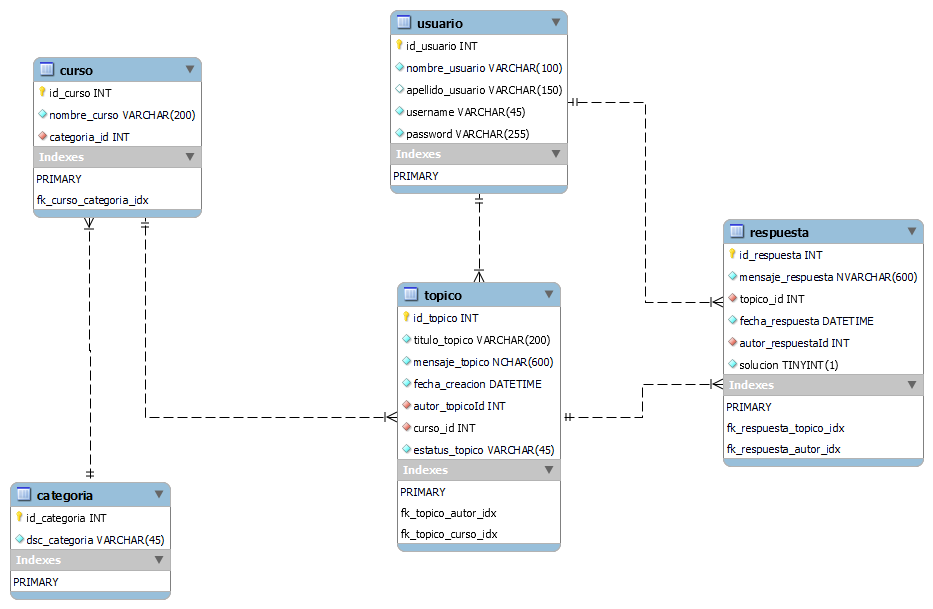
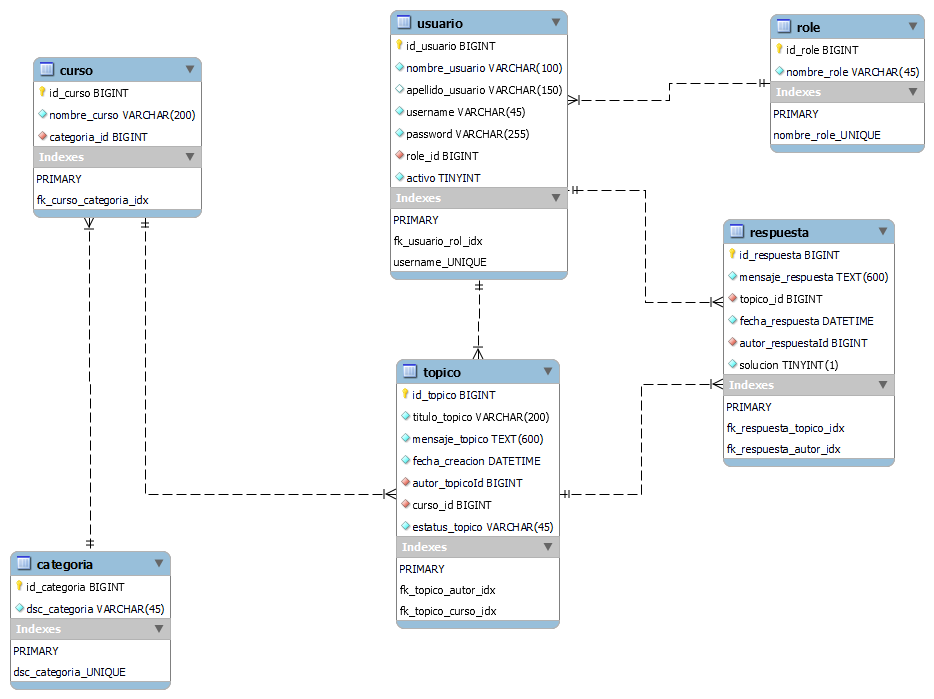
Actualizacion clase Respuesta

diff --git a/src/main/java/com/alura/foroalura/domain/respuesta/Respuesta.java b/src/main/java/com/alura/foroalura/domain/respuesta/Respuesta.java
@@ -5,39 +5,34 @@ import java.time.LocalDateTime;
 import com.alura.foroalura.domain.topico.Topico;
 import com.alura.foroalura.domain.usuario.Usuario;
 
+import jakarta.persistence.*;
+import lombok.AllArgsConstructor;
+import lombok.EqualsAndHashCode;
+import lombok.Getter;
+import lombok.NoArgsConstructor;
+
+// Anotación para mapear la entidad 'Respuesta' a una tabla llamada 'respuesta' en la base de datos.
+@Table(name = "respuesta")
+// Anotación para marcar esta clase como una entidad JPA.
+@Entity(name = "Respuesta")
+@Getter
+@NoArgsConstructor
+@AllArgsConstructor
+// Utilizada para generar el método equals y hashCode basado en el campo 'id'.
+@EqualsAndHashCode(of = "id")
 public class Respuesta {
 
+	// Anotación para especificar que este campo es la clave primaria y que se
+	// generará automáticamente.
+	@Id
+	@GeneratedValue(strategy = GenerationType.IDENTITY)
+	@Column(name = "id_respuesta")
 	private Long id;
 	private String mensaje;
 	private Topico topico;
 	private LocalDateTime fechaCreacion = LocalDateTime.now();
 	private Usuario autor;
 	private Boolean solucion = false;
-
-	@Override
-	public int hashCode() {
-		final int prime = 31;
-		int result = 1;
-		result = prime * result + ((id == null) ? 0 : id.hashCode());
-		return result;
-	}
-
-	@Override
-	public boolean equals(Object obj) {
-		if (this == obj)
-			return true;
-		if (obj == null)
-			return false;
-		if (getClass() != obj.getClass())
-			return false;
-		Respuesta other = (Respuesta) obj;
-		if (id == null) {
-			if (other.id != null)
-				return false;
-		} else if (!id.equals(other.id))
-			return false;
-		return true;
-	}
 
 	public Long getId() {
 		return id;

diff --git a/src/main/java/com/alura/foroalura/domain/usuario/Usuario.java b/src/main/java/com/alura/foroalura/domain/usuario/Usuario.java
@@ -56,10 +56,20 @@ public class Usuario implements UserDetails {
 	@GeneratedValue(strategy = GenerationType.IDENTITY)
 	@Column(name = "id_usuario")
 	private Long id;
+
+	@Column(name = "nombre")
 	private String nombre;
+
+	@Column(name = "apellido")
 	private String apellido;
+
+	@Column(name = "email")
 	private String email;
+
+	@Column(name = "username", unique = true)
 	private String username;
+
+	@Column(name = "password")
 	private String password;
 
 	@ManyToOne(fetch = FetchType.EAGER)

diff --git a/src/main/java/com/alura/foroalura/domain/curso/Categoria.java b/src/main/java/com/alura/foroalura/domain/curso/Categoria.java
@@ -32,7 +32,7 @@ public class Categoria {
     @Column(name = "id_categoria")
     private Long id;
 
-    @Column(name = "dsc_categoria")
+    @Column(name = "dsc_categoria", unique = true)
     private String nombre;
 
     public Categoria(String nombre) {

diff --git a/src/main/java/com/alura/foroalura/infra/security/Role.java b/src/main/java/com/alura/foroalura/infra/security/Role.java
@@ -34,7 +34,7 @@ public class Role {
     @Column(name = "id_usuario")
     private Long id;
 
-    @Column(name = "nombre_role")
+    @Column(name = "nombre_role", unique = true)
     private String nombre_role;
 
     public Long getId() {
